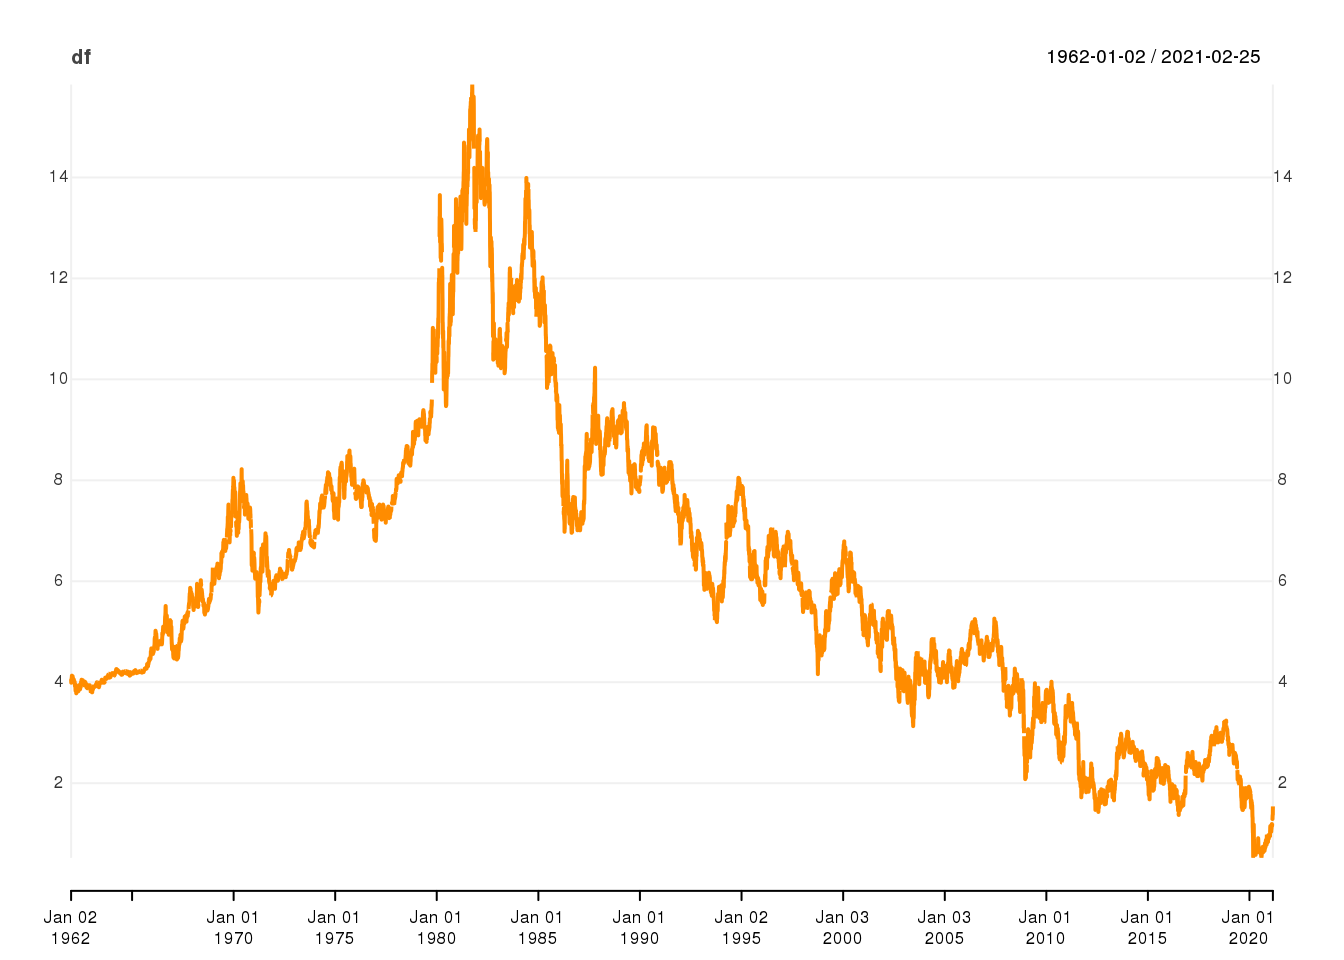
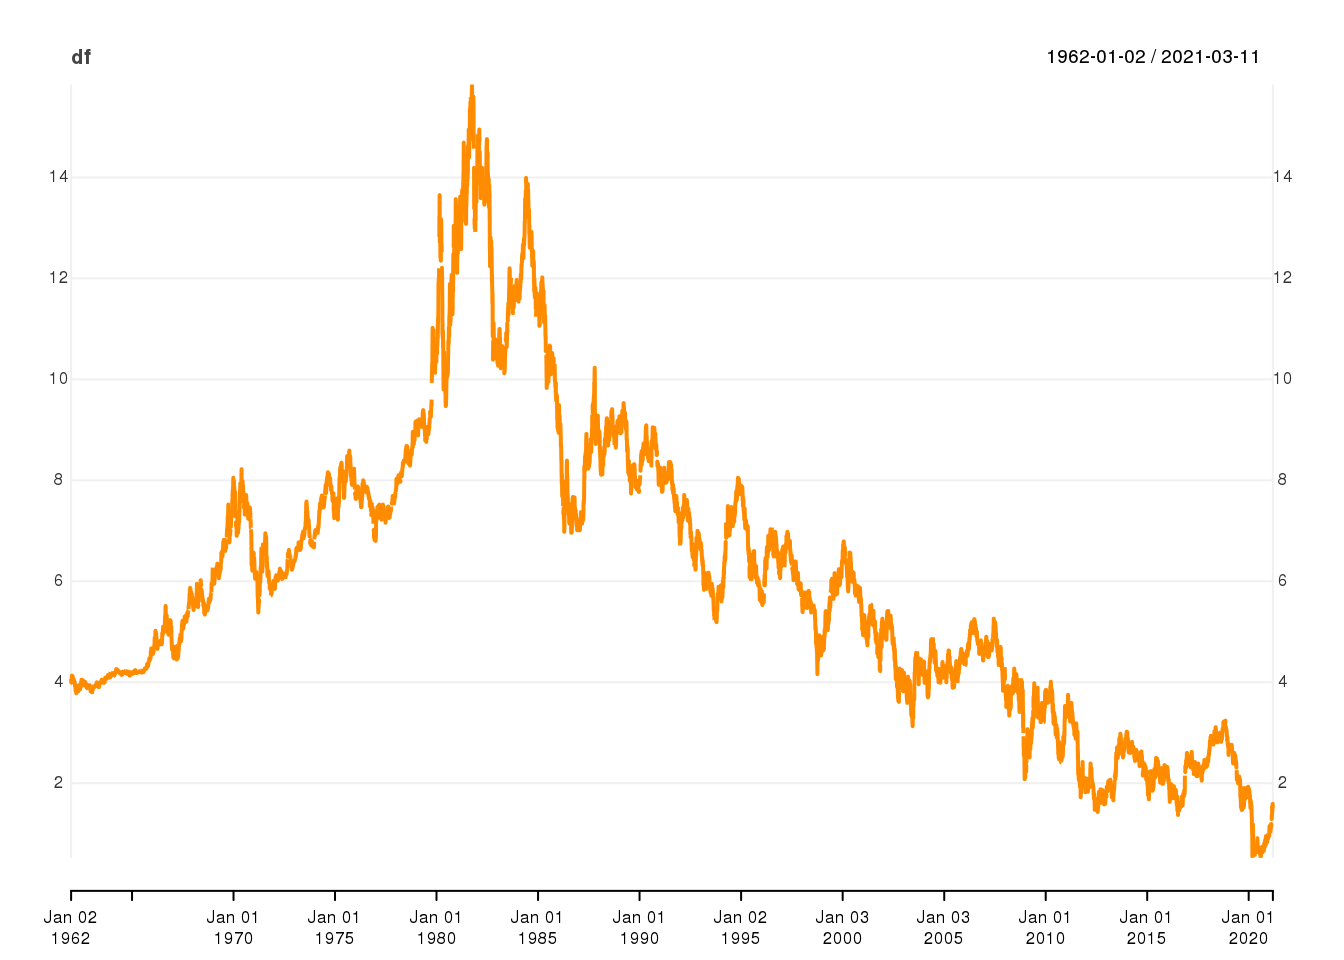
quant reword

diff --git a/content/post/2021-02-27-r을-이용한-퀀트-투자-포트폴리오-만들기-리뷰-2.html b/content/post/2021-02-27-r을-이용한-퀀트-투자-포트폴리오-만들기-리뷰-2.html
@@ -1,5 +1,5 @@
 ---
-title: '[R을 이용한 퀀트 투자 포트폴리오 만들기] 리뷰-2'
+title: '[R을 이용한 퀀트 투자 포트폴리오 만들기] 공부하기-2'
 author: 최의용
 date: '2021-02-27'
 slug: r을-이용한-퀀트-투자-포트폴리오-만들기-리뷰-2
@@ -56,16 +56,16 @@ df_info </code></pre>
 <pre><code>## # A tibble: 250 x 12
 ##        N 종목명 현재가 전일비 등락률 액면가 시가총액 상장주식수 외국인비율
 ##    &lt;int&gt; &lt;chr&gt;  &lt;chr&gt;  &lt;chr&gt;  &lt;chr&gt;  &lt;chr&gt;  &lt;chr&gt;    &lt;chr&gt;           &lt;dbl&gt;
-##  1     1 삼성전자… 82,500 2,800  -3.28% 100    4,925,0… 5,969,783        54.9
-##  2     2 SK하이닉… 141,5… 7,000  -4.71% 5,000  1,030,1… 728,002          50.7
-##  3     3 NAVER  375,0… 8,000  -2.09% 100    615,988  164,263          57.3
-##  4     4 삼성전자우… 72,800 1,300  -1.75% 100    599,062  822,887          78.8
-##  5     5 LG화학 831,0… 59,000 -6.63% 5,000  586,622  70,592           44.9
-##  6     6 현대차 237,0… 8,000  -3.27% 5,000  506,394  213,668          31.1
-##  7     7 삼성바이오… 750,0… 25,000 -3.23% 2,500  496,238  66,165           10.5
-##  8     8 삼성SDI… 674,0… 30,000 -4.26% 5,000  463,473  68,765           44.0
-##  9     9 카카오 488,0… 3,500  +0.72% 500    432,749  88,678           34.2
-## 10    10 셀트리온… 297,5… 10,500 -3.41% 1,000  401,707  135,028          21.3
+##  1     1 삼성전자… 82,800 800    +0.98% 100    4,942,9… 5,969,783        54.7
+##  2     2 SK하이닉… 140,0… 3,000  +2.19% 5,000  1,019,2… 728,002          50.0
+##  3     3 LG화학 944,0… 5,000  +0.53% 5,000  666,392  70,592           45.3
+##  4     4 NAVER  380,5… 7,000  +1.87% 100    625,022  164,263          57.2
+##  5     5 삼성전자우… 72,800 300    +0.41% 100    599,062  822,887          78.3
+##  6     6 현대차 232,5… 4,000  +1.75% 5,000  496,779  213,668          30.6
+##  7     7 삼성바이오… 743,0… 28,000 +3.92% 2,500  491,606  66,165           10.4
+##  8     8 삼성SDI… 689,0… 2,000  +0.29% 5,000  473,788  68,765           43.6
+##  9     9 카카오 481,0… 2,000  +0.42% 500    426,669  88,705           33.3
+## 10    10 셀트리온… 297,0… 4,000  +1.37% 1,000  401,032  135,028          21.0
 ## # … with 240 more rows, and 3 more variables: 거래량 &lt;chr&gt;, PER &lt;chr&gt;,
 ## #   ROE &lt;chr&gt;</code></pre>
 </div>
@@ -118,9 +118,9 @@ ticker_df</code></pre>
 ##    &lt;chr&gt;            &lt;chr&gt;   
 ##  1 삼성전자         005930  
 ##  2 SK하이닉스       000660  
-##  3 NAVER            035420  
-##  4 삼성전자우       005935  
-##  5 LG화학           051910  
+##  3 LG화학           051910  
+##  4 NAVER            035420  
+##  5 삼성전자우       005935  
 ##  6 현대차           005380  
 ##  7 삼성바이오로직스 207940  
 ##  8 삼성SDI          006400  
@@ -136,17 +136,17 @@ ticker_df</code></pre>
 <pre class="r"><code>df_ticker_info</code></pre>
 <pre><code>## # A tibble: 250 x 13
 ##        N 종목명 현재가 전일비 등락률 액면가 시가총액 상장주식수 외국인비율
-##    &lt;int&gt; &lt;chr&gt;  &lt;chr&gt;  &lt;chr&gt;  &lt;chr&gt;  &lt;chr&gt;  &lt;chr&gt;    &lt;chr&gt;           &lt;dbl&gt;
-##  1     1 삼성전자… 82,500 2,800  -3.28% 100    4,925,0… 5,969,783        54.9
-##  2     2 SK하이닉… 141,5… 7,000  -4.71% 5,000  1,030,1… 728,002          50.7
-##  3     3 NAVER  375,0… 8,000  -2.09% 100    615,988  164,263          57.3
-##  4     4 삼성전자우… 72,800 1,300  -1.75% 100    599,062  822,887          78.8
-##  5     5 LG화학 831,0… 59,000 -6.63% 5,000  586,622  70,592           44.9
-##  6     6 현대차 237,0… 8,000  -3.27% 5,000  506,394  213,668          31.1
-##  7     7 삼성바이오… 750,0… 25,000 -3.23% 2,500  496,238  66,165           10.5
-##  8     8 삼성SDI… 674,0… 30,000 -4.26% 5,000  463,473  68,765           44.0
-##  9     9 카카오 488,0… 3,500  +0.72% 500    432,749  88,678           34.2
-## 10    10 셀트리온… 297,5… 10,500 -3.41% 1,000  401,707  135,028          21.3
+##  * &lt;int&gt; &lt;chr&gt;  &lt;chr&gt;  &lt;chr&gt;  &lt;chr&gt;  &lt;chr&gt;  &lt;chr&gt;    &lt;chr&gt;           &lt;dbl&gt;
+##  1     1 삼성전자… 82,800 800    +0.98% 100    4,942,9… 5,969,783        54.7
+##  2     2 SK하이닉… 140,0… 3,000  +2.19% 5,000  1,019,2… 728,002          50.0
+##  3     3 LG화학 944,0… 5,000  +0.53% 5,000  666,392  70,592           45.3
+##  4     4 NAVER  380,5… 7,000  +1.87% 100    625,022  164,263          57.2
+##  5     5 삼성전자우… 72,800 300    +0.41% 100    599,062  822,887          78.3
+##  6     6 현대차 232,5… 4,000  +1.75% 5,000  496,779  213,668          30.6
+##  7     7 삼성바이오… 743,0… 28,000 +3.92% 2,500  491,606  66,165           10.4
+##  8     8 삼성SDI… 689,0… 2,000  +0.29% 5,000  473,788  68,765           43.6
+##  9     9 카카오 481,0… 2,000  +0.42% 500    426,669  88,705           33.3
+## 10    10 셀트리온… 297,0… 4,000  +1.37% 1,000  401,032  135,028          21.0
 ## # … with 240 more rows, and 4 more variables: 거래량 &lt;chr&gt;, PER &lt;chr&gt;,
 ## #   ROE &lt;chr&gt;, 종목코드 &lt;chr&gt;</code></pre>
 </div>

diff --git a/content/post/2021-01-09-r을-이용한-퀀트-투자-포트폴리오-만들기-리뷰-1.html b/content/post/2021-01-09-r을-이용한-퀀트-투자-포트폴리오-만들기-리뷰-1.html
@@ -1,5 +1,5 @@
 ---
-title: '[R을 이용한 퀀트 투자 포트폴리오 만들기] 리뷰-1'
+title: '[R을 이용한 퀀트 투자 포트폴리오 만들기] 공부하기-1'
 author: 최의용
 date: '2021-01-09'
 slug: r을-이용한-퀀트-투자-포트폴리오-만들기-리뷰-1
@@ -104,12 +104,12 @@ tail(df)</code></pre>
 
 tail(df)</code></pre>
 <pre><code>##            DGS10
-## 2021-02-18  1.29
-## 2021-02-19  1.34
-## 2021-02-22  1.37
-## 2021-02-23  1.37
-## 2021-02-24  1.38
-## 2021-02-25  1.54</code></pre>
+## 2021-03-04  1.54
+## 2021-03-05  1.56
+## 2021-03-08  1.59
+## 2021-03-09  1.55
+## 2021-03-10  1.53
+## 2021-03-11  1.54</code></pre>
 </div>
 <div id="데이터-시각화-미연방준비은행---fred" class="section level3">
 <h3>데이터 시각화 (미연방준비은행 - FRED)</h3>

diff --git a/content/post/2021-03-15-r을-이용한-퀀트-투자-포트폴리오-만들기-리뷰-3.html b/content/post/2021-03-15-r을-이용한-퀀트-투자-포트폴리오-만들기-리뷰-3.html
@@ -1,5 +1,5 @@
 ---
-title: '[R을 이용한 퀀트 투자 포트폴리오 만들기] 리뷰-3'
+title: '[R을 이용한 퀀트 투자 포트폴리오 만들기] 공부하기-3'
 author: 최의용
 date: '2021-03-15'
 slug: r을-이용한-퀀트-투자-포트폴리오-만들기-리뷰-3
